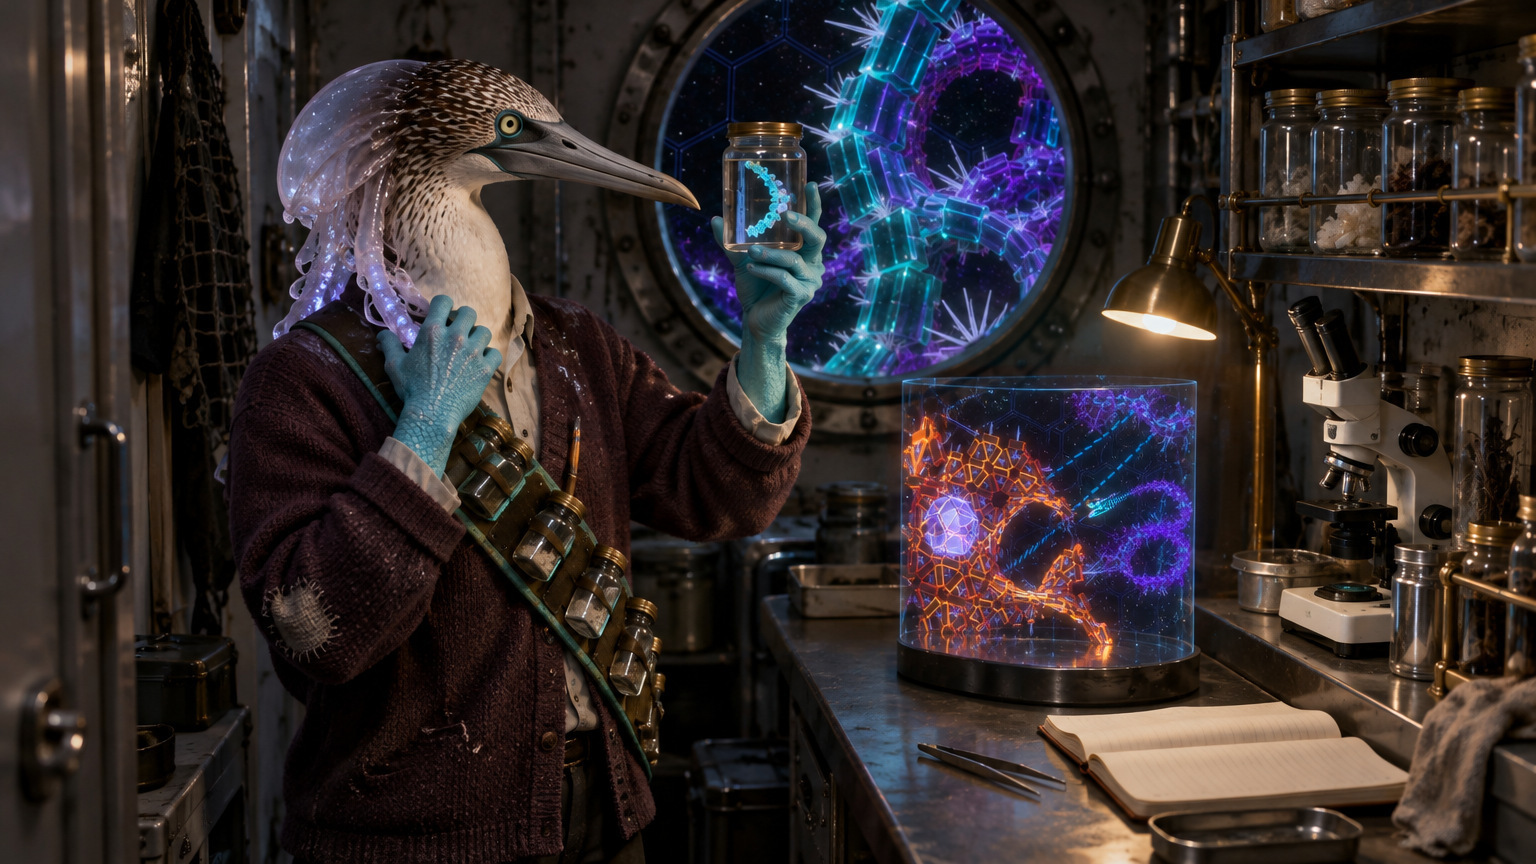
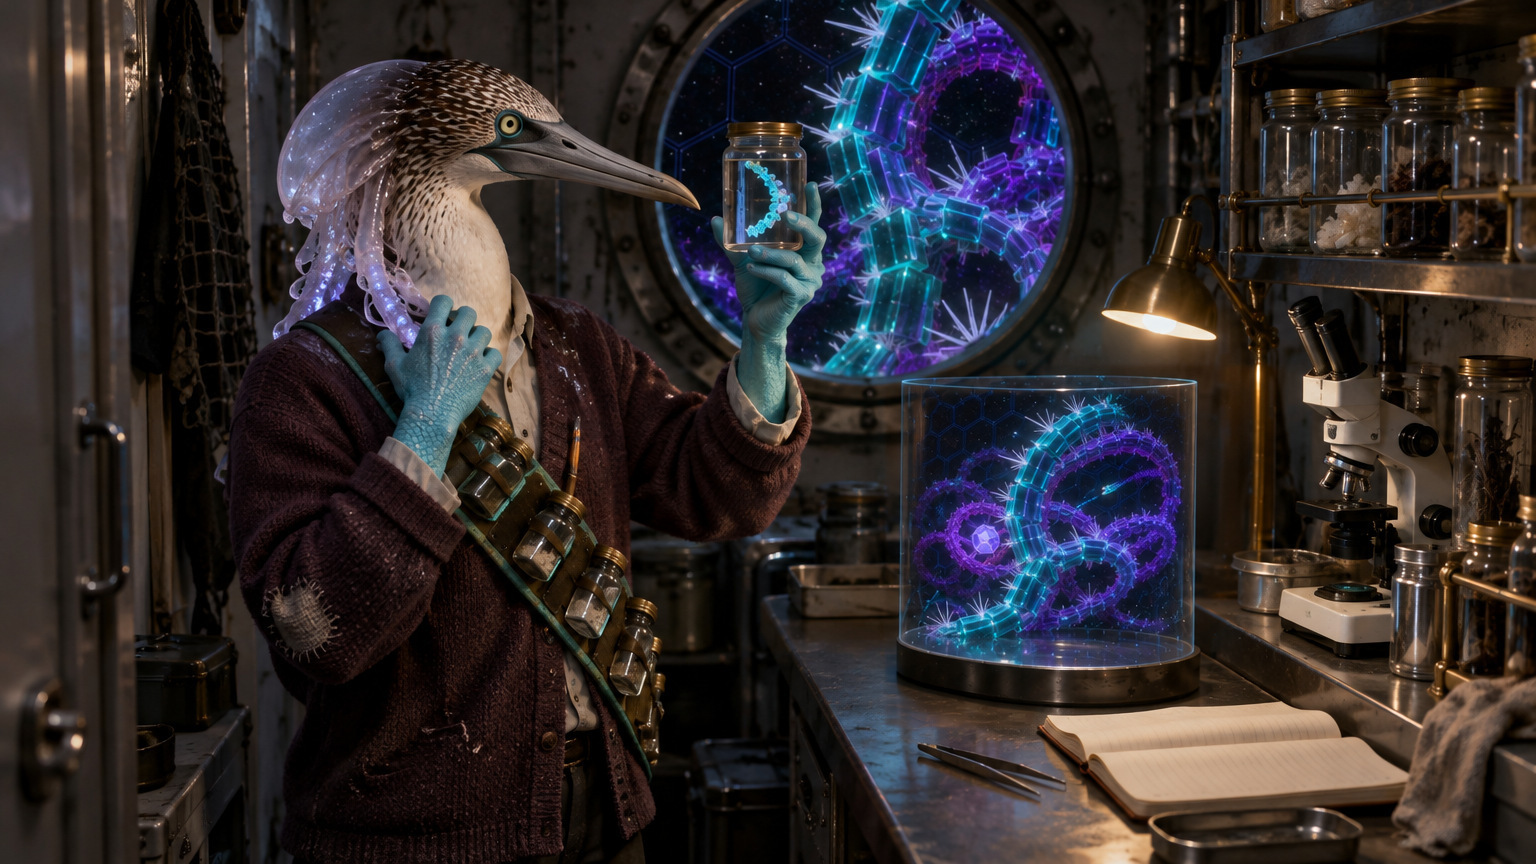
feat(pilots): Trace's cylinder asked again from the port in her own picture
The cylinder came back orange in the first patch (the colour of one reference
frame) where her port is jade teal and violet. The second patch asks for the
cylinder alone, with the scene and no frame of the game: the words point at
"the round port of this same photograph". It came back in the port's colours
on the first run, in the same place and at the same size, all inside the
glass. The scene now holds one thing at three sizes: the sprig in the jar,
the survey in the cylinder, the growth in the port.

- scenes/Trace.py: the second patch (one region, refs=()), told in the record
- patches/Trace.json: the prompt as sent (298 words); the first patch's note
  is kept under "earlier"
- Avatar_Trace.png: re-cut from the saved scene (it differs by 2 of 255 at
  most: the scene was encoded again)

Weave: 11 credits, quoted first; the fifth of the six runs approved on a card.
No C# changed, so no reference compile ran. Self-tests of scene, refs, bust,
creator and blind pass; avatars --check ok.

Affects: Shombith's colour grade record (Docs/VesselModels/colour_grade.json,
rewritten by colour_grade.py for the re-cut avatar)

Claude-Session: https://claude.ai/code/session_01WQBAi6RtMp5ZQ2VagCFDrS

Changed region(s): [[0.5625, 0.4375, 0.7812, 0.7812]]

diff --git a/Tools/Build/pilot_art/scenes/Trace.py b/Tools/Build/pilot_art/scenes/Trace.py
@@ -40,7 +40,14 @@ six Garrett approved on a card), and each was judged on its own when the answer 
     A jellyfish needs its bell, and jelly that hangs where hair hangs is read as hair whatever its outline. The
     head stays the bell; the head that was tried is kept beside the gallery page.
   * THE MICROSCOPE, not taken: "the small plate ... is blank" was painted as a white dish on its stage.
-The patch below is that ask as it was sent. Its `edit` holds only the two regions taken, and `took` says so."""
+That ask, as it was sent, and what was taken of it are kept in patches/Trace.json (under `earlier`).
+
+The patch below is the second (2026-11-12, 11 credits, the fifth of the six): the cylinder alone, asked again so
+that it holds the growth of her own port. It was sent with the scene and no frame of the game: the words point at
+"the round port of this same photograph". The answer is in the port's jade teal and violet on the first run, in the
+same place and at the same size, and all of it is inside the glass: a chain of bricks with needles at its joints,
+violet rings, the crystal, a craft and the net. So the scene now holds one thing at three sizes, as designed: the
+sprig in the jar, the survey in the cylinder, the growth in the port."""
 SCENE = dict(
     treatment="Working photograph in a survey vessel's cabin: a sprig, the survey, and the growth itself in the port",
     shot=("A working photograph in the cabin of a small survey vessel at night: a 35mm lens from the cabin "
@@ -92,47 +99,23 @@ SCENE = dict(
           "pencil is pushed through a loop of the bandolier."),
     close=(256, 20, 716, 480),
     refs=("sea_flora_approach", "sea_flora_through", "sea_flora_crystal"),
-    patch=dict(
-        what=("the back of the head and the ribbons of jelly at the neck, what the glass cylinder on the bench "
-              "holds, what is seen through the round port, and the small plate on the microscope"),
-        ask=("THE BACK OF THE HEAD. {name} has one head, and its outline is a seabird's. Where the clear dome swells "
-             "out behind the head now, the back of the head is drawn in close: a low rounded crown and a nape that "
-             "runs straight down into the back of the neck, no wider and no higher than a booby's own head. Along "
-             "that outline the head changes what it is made of. Behind the eye the brown feathers go clear one by "
-             "one: a few whole feathers of clear lilac jelly lying flat among the brown ones, then more, and at the "
-             "back of the head they have run together into smooth, thick, milky lilac jelly, lying as close to the "
-             "head as the feathers did, with the last brown feathers lying deep inside it. At the nape the jelly "
-             "thins and becomes the skin of the neck. Out of that skin, in one row down the back of the neck from "
-             "the nape to the collar, grow five ruffled ribbons of the same jelly, each rooted in the neck and lying "
-             "flat against it. Four end at the shoulder; the longest comes forward over the collar to the fingers "
-             "of the hand at the collarbone, which holds its end as before. The jelly is lit only from outside: the "
-             "port's cold light shows through it from behind, and the lamp puts one warm highlight on it. The "
-             "face, the eye, the bill, the white throat and both hands stay exactly as they are."
-             "\n\n"
-             "THE CYLINDER. The glass cylinder and its round stand stay exactly where they are. All that the "
-             "cylinder held is gone, and every ring and mote of light that hung round it, and the glass is filled "
-             "again from nothing with what the reference pictures show: a hologram with real depth, a small "
-             "solid-looking scene with a near side and a far side, all of it inside the glass. Inside it is {view}."
-             "\n\n"
-             "THE PORT. Through the round port is that same growth at its true size, with exactly the look of the "
-             "reference pictures: black space sown with fine white dust, and close outside a wall of bricks of "
-             "light, flat-sided rectangular blocks with deep clear faces and thin bright edges, each as big as a "
-             "door, set edge to edge in rings round open holes, jade teal deepening to indigo and violet, with a "
-             "spray of white needles in every hole. The port's riveted frame, the jar, the hand that holds it and "
-             "the bill stay where they are."
-             "\n\n"
-             "THE MICROSCOPE. The small plate on the microscope's head is plain white enamel like the rest of it, "
-             "and blank."),
-        took=("what is seen through the round port and what the cylinder holds; the head, drawn in as asked, was "
-              "read blind and left as it was, and the microscope was left as it was"),
-        edit=(   # the port's glass; the cylinder on its stand, with the bench where the old rings of light stood
-            # outside the glass. Everything inside them is the answer's, the jar and the hand that holds it too.
-            ((1076, 166), (1073, 202), (1063, 238), (1048, 271), (1027, 301), (1001, 327), (971, 348), (938, 363),
-             (902, 373), (866, 376), (830, 373), (794, 363), (761, 348), (731, 327), (705, 301), (684, 271),
-             (669, 238), (659, 202), (656, 166), (659, 130), (669, 94), (684, 61), (705, 31), (731, 5), (737, 0),
-             (995, 0), (1001, 5), (1027, 31), (1048, 61), (1063, 94), (1073, 130)),
+    patch=dict(   # the second patch of this scene; the first is told above and kept in patches/Trace.json
+        what="what the glass cylinder on the bench holds",
+        ask=("THE CYLINDER. The glass cylinder and its round stand stay exactly where they are, at the same size. "
+             "All that the cylinder holds is gone, and the glass is filled again from nothing: a hologram with real "
+             "depth, a small solid-looking scene with a near side and a far side, all of it inside the glass. It is "
+             "a small model of the growth that fills the round port of this same photograph, the whole of it seen "
+             "from far off, in the same colours and the same glow as the port shows it: chains of jade teal bricks "
+             "of light with a spray of white needles at every joint, and rings of violet bricks behind them, joined "
+             "ring to ring into one coral that curves through black space sown with fine white dust. Each brick is "
+             "a flat-sided block with a deep clear face and thin bright edges, exactly like the bricks in the port. "
+             "Among the rings, one pale lilac crystal shaped like a twelve-sided die glows where the coral holds "
+             "it. One tiny bright craft flies through a ring and lays behind it a ribbon of small jade teal bricks "
+             "set end to end. Far behind it all curves a net of thin dim blue lines in six-sided panes."),
+        edit=(   # the cylinder on its stand, and the bench where its light falls
             ((882, 362), (1290, 362), (1290, 560), (1262, 600), (1215, 640), (1206, 708), (1040, 708), (1035, 730),
              (882, 730)),
         ),
+        refs=(),   # the port in the picture itself is the reference: a frame of another colour was copied (88)
     ),
 )
